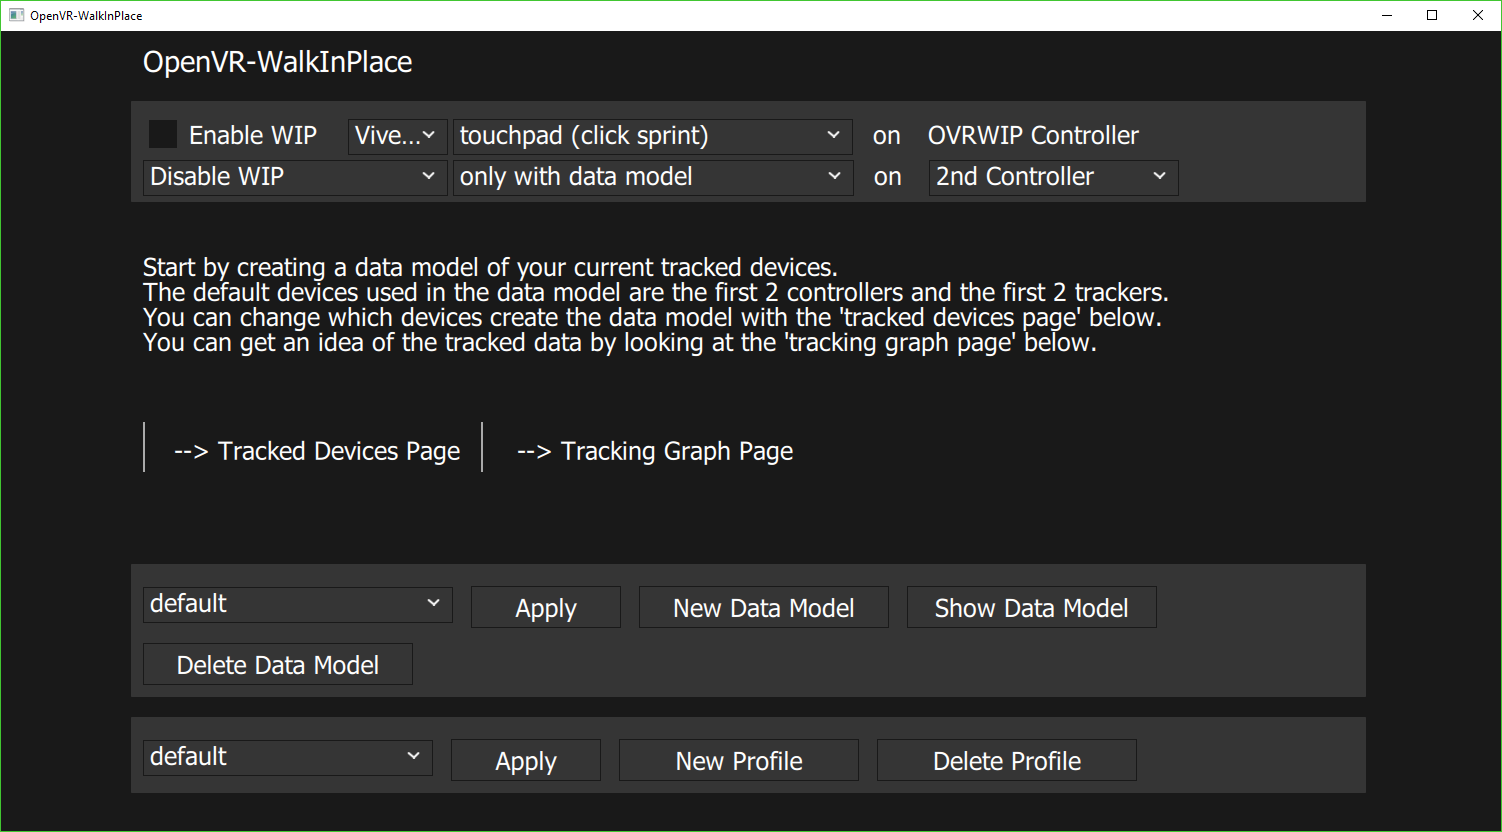
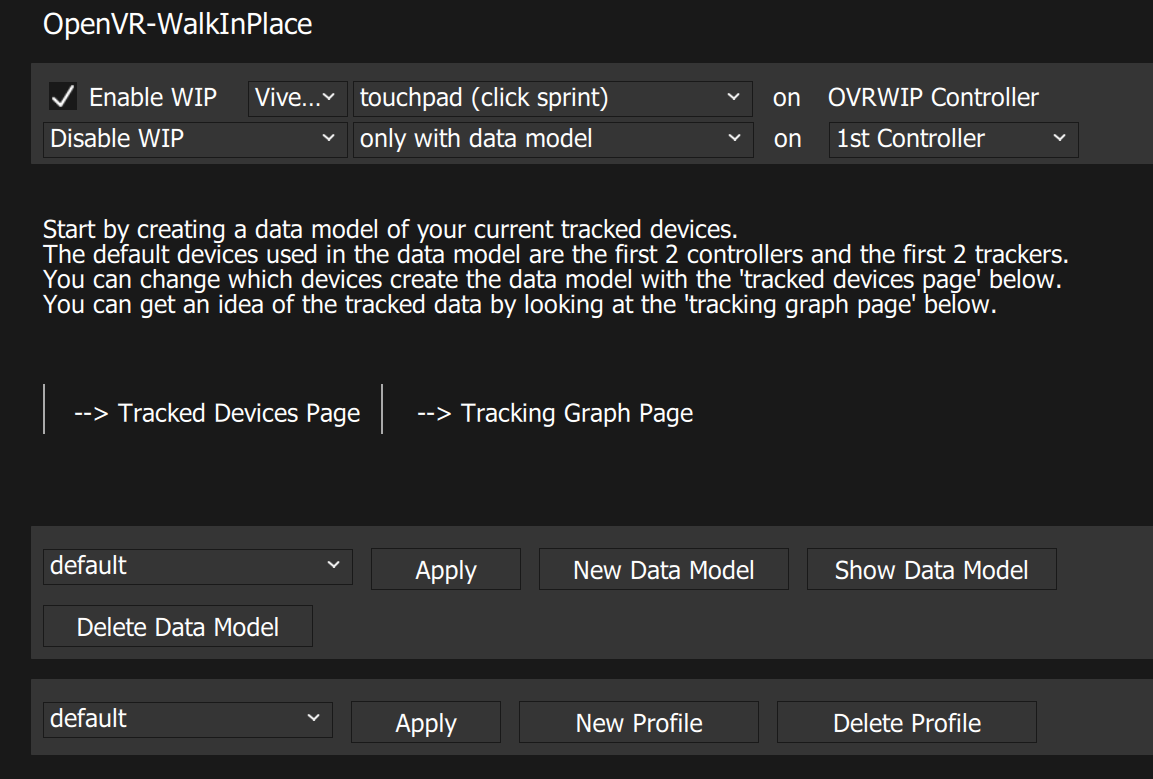
added setup docs

diff --git a/docs/screenshots/full_setup/Readme.md b/docs/screenshots/full_setup/Readme.md
@@ -1,0 +1,42 @@
+Steps to create setup OpenVR-WalkInPlace
+*initial screen
+![Example Screenshot](ovrwip_init.png)
+
+*click on 'Tracked Devices Page'
+![Example Screenshot](ovrwip_step1.png)
+
+*Select your preferred devices used to match movement model
+![Example Screenshot](ovrwip_step2.png)
+
+*return to initial page and click on 'New Data Model'
+![Example Screenshot](ovrwip_step3.png)
+
+*enter a name for your data model
+*then proceed to follow the instructions:
+```
+The data model creation process takes ~25 seconds 5 seconds for each phase.
+The process starts with slowest to increasing to medium to medium to increasing to fast to fastest.
+Do not stop moving during this process.
+If you do it will be recorded and used as a valid movement model.
+You can always try it, view it, and recreate the model until you have what you'd like.
+```
+
+
+###There will be popup messages with a countdown when each phase will occur
+
+*Here is an example alert going from step jogging tracking increasing to running tracking, (There is a full jogging and running stage, this is a stage that tracks any pace between the two)
+![Example Screenshot](ovrwip_step4.png)
+
+
+###Once you have completed all stages of the data model it will automatically return to the initial page
+### You then select your preferred data model from the dropdown
+### and Click 'apply' and 'Enable WIP'
+![Example Screenshot](ovrwip_step5.png)
+
+### Once you check 'Enable WIP' the 'ovrwip_controller' virtual controller will be created 
+*You will see an additional controller added in SteamVR like this
+![Example Screenshot](new_controller.png)
+
+### You can will get virtual input based on your data model 
+### Then you can create SteamVR input bindings described here
+https://github.com/pottedmeat7/OpenVR-WalkInPlace/tree/master/docs/screenshots/steamvr_bindings/

diff --git a/Readme.md b/Readme.md
@@ -32,6 +32,9 @@ Download the newest installer from the [release section](https://github.com/pott
 
 ![Example Screenshot](docs/screenshots/walkinplace_default.png)
 
+Follow this for basic initial setup
+https://github.com/pottedmeat7/OpenVR-WalkInPlace/tree/master/docs/screenshots/full_setup/
+
 ## GIF Step Examples
 Walking Example: 
 ![walk example](docs/gifs/wip_walk.gif)
@@ -230,3 +233,14 @@ Driver Log here `C:\Program Files (x86)\Steam\steamapps\common\SteamVR\drivers\0
 # License
 
 This software is released under GPL 3.0.
+
+#Credits
+mlpack2018 mlpack 3: a fast, flexible machine learning library Curtin, Ryan R. and Edel, Marcus and Lozhnikov, Mikhail and Mentekidis, Yannis and Ghaisas, Sumedh and Zhang, Shangtong Journal of Open Source Software, 3, 26 726, 2018, 10.21105/joss.00726, https://doi.org/10.21105/joss.00726
+
+Conrad Sanderson and Ryan Curtin.
+[Armadillo: a template-based C++ library for linear algebra.](http://arma.sourceforge.net/armadillo_joss_2016.pdf) 
+Journal of Open Source Software, Vol. 1, pp. 26, 2016.
+
+Conrad Sanderson and Ryan Curtin.
+[Practical sparse matrices in C++ with hybrid storage and template-based expression optimisation.](http://arma.sourceforge.net/armadillo_mca_2019.pdf)
+Mathematical and Computational Applications, Vol. 24, No. 3, 2019.
